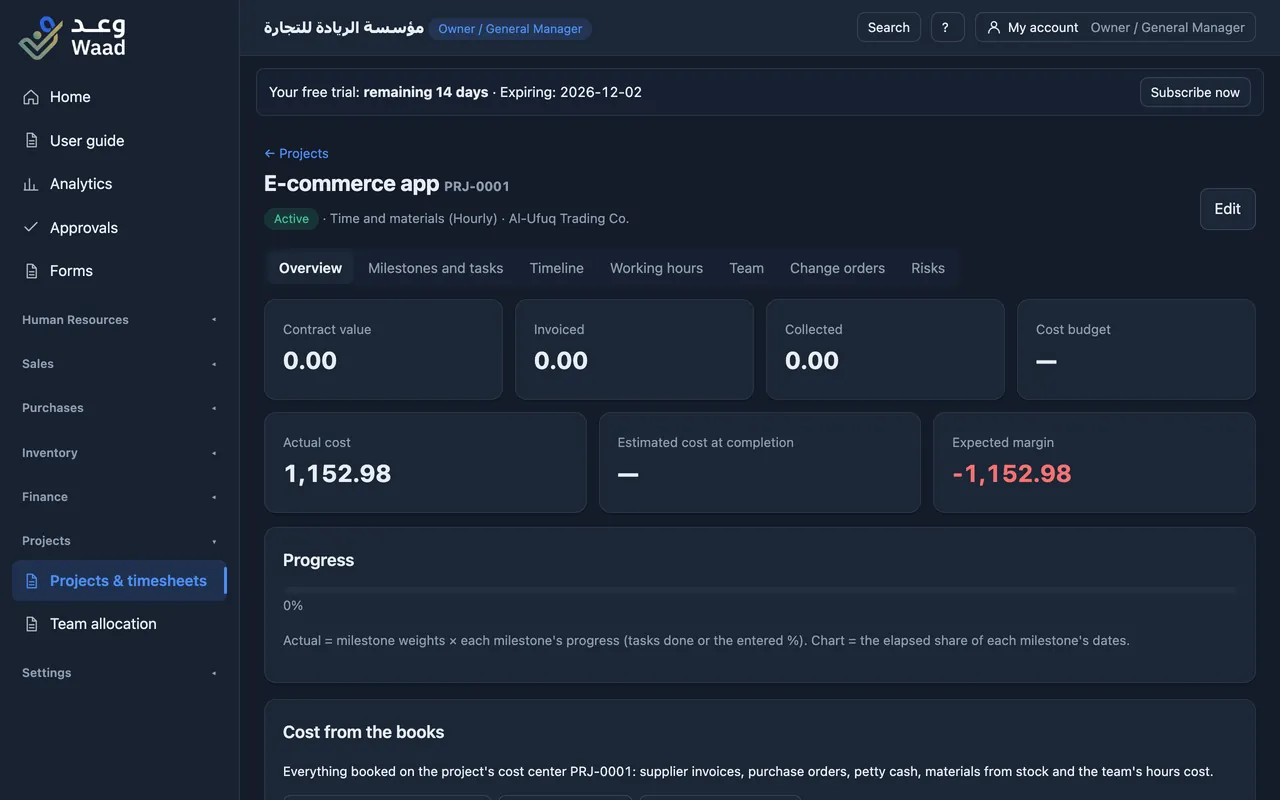
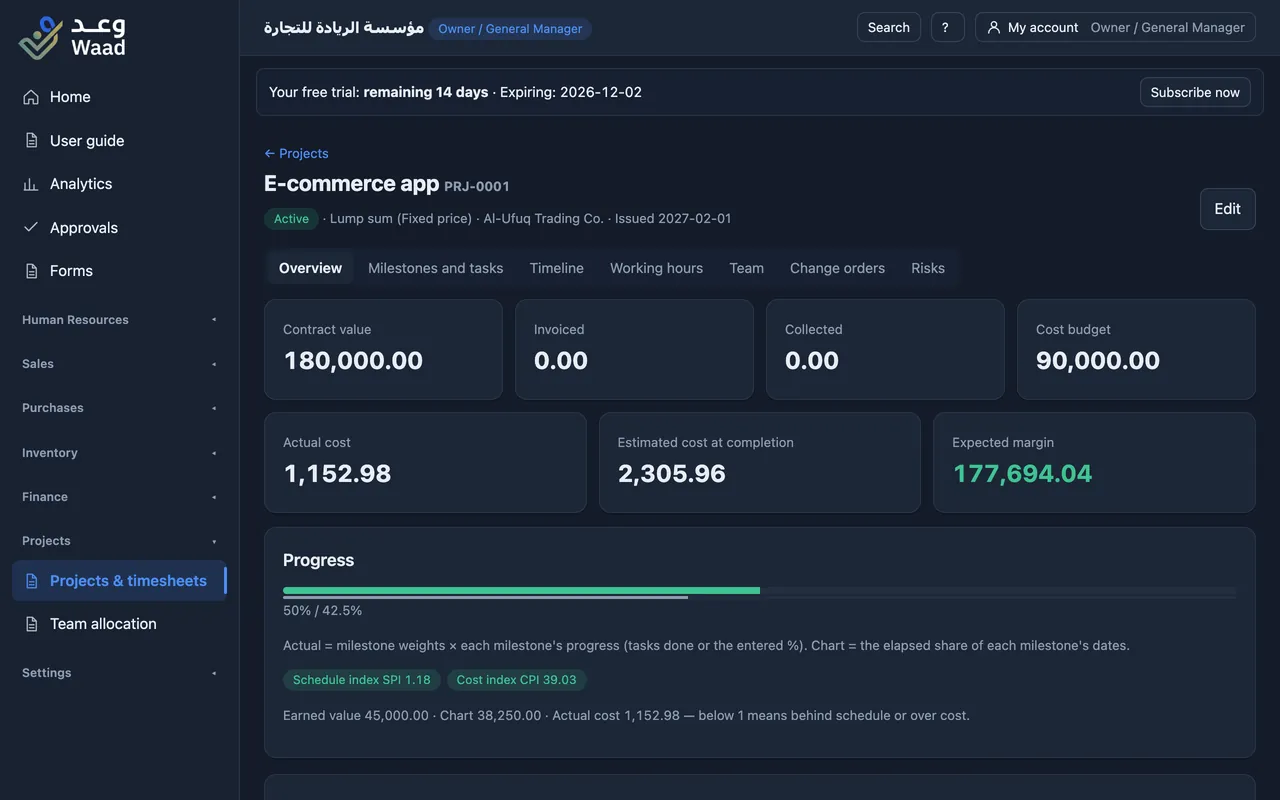
Website screenshots: the sample project shows a contract, cost budget and weighted milestones

diff --git a/site/screens.py b/site/screens.py
@@ -49,6 +49,11 @@ with sync_playwright() as p:
     o.evaluate("""async () => { const c = S.cid;
       await db.ins('company_announcements', { company_id: c, title: 'دوام رمضان', body: 'يبدأ الدوام الساعة العاشرة صباحا ولمدة ست ساعات طوال شهر رمضان.', pinned: true });
       await db.ins('surveys', { company_id: c, title: 'رضا الموظفين', kind: 'enps', questions: [{ t: 'ما مدى احتمال أن توصي بمنشأتنا كمكان عمل لصديق؟', type: 'enps' }, { t: 'ما أهم سبب لتقييمك؟', type: 'text' }] }); }""")
+    # the sample project looks like one in progress: a contract, a cost budget and weighted milestones
+    o.evaluate("""async id => { const c = S.cid, d = n => new Date(Date.now() + n * 864e5).toISOString().slice(0, 10);
+      await db.upd('projects', { id: 'eq.' + id }, { billing: 'fixed', contract_value: 180000, cost_budget: 90000, start_date: d(-45), due_date: d(75) });
+      for (const [name, weight, a, b, progress, sort] of [['التحليل والتصميم', 30, -45, -15, 100, 0], ['التطوير', 50, -15, 45, 40, 1], ['الاختبار والتسليم', 20, 45, 75, 0, 2]])
+        await db.ins('project_milestones', { company_id: c, project_id: id, name, weight, start_date: d(a), end_date: d(b), progress, sort }); }""", res['projects'][0])
     shots = [('compliance', '#/compliance'), ('hr', '#/hrdash'), ('finance', '#/reports'), ('marketing', '#/marketing'), ('purch', '#/purchases'), ('stock', '#/items'), ('project', '#/projects/' + (res['projects'] or [''])[0]), ('forms', '#/forms'), ('invoice', '#/sales/' + zinv)]
     for lang in ('ar', 'en'):
         o.evaluate("l => localStorage.setItem('waad.lang', JSON.stringify(l))", lang); o.reload(); o.wait_for_selector('#nav')
